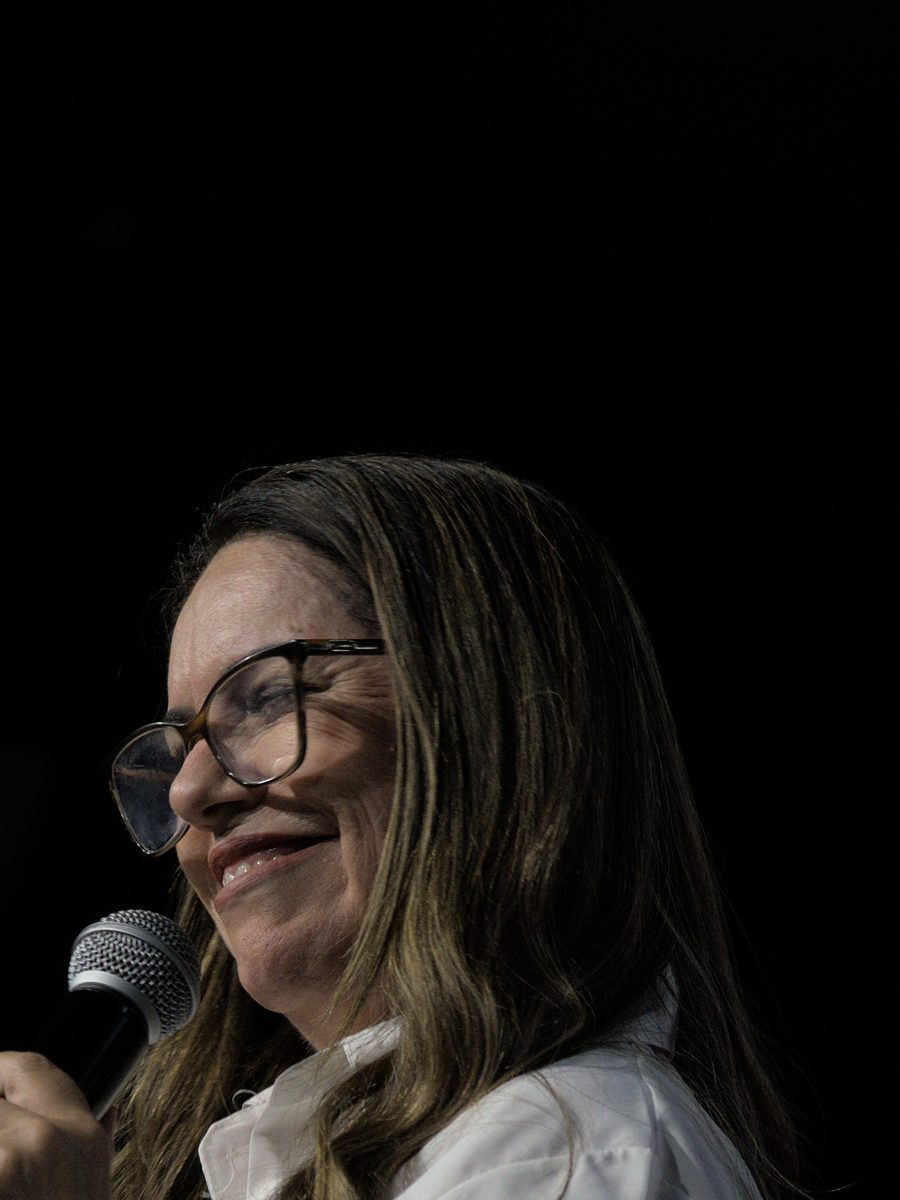
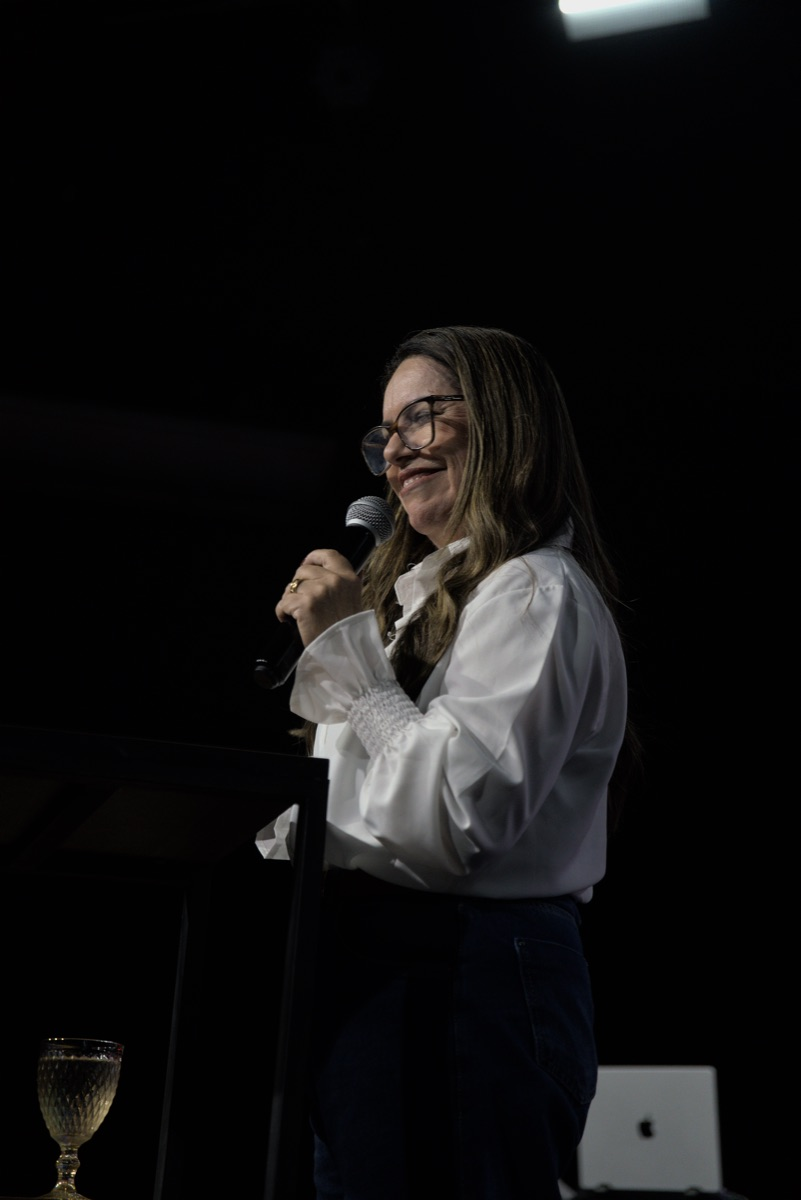
feat(conference): line-up com Ap. Rayssa e Ap. Neila em cards individuais
Separa os casais: Ap. Heber Son → Ap. Rayssa, e Ap. Samuel → Ap. Neila.
8 cards (grid 4×2 desktop, 2 col mobile). Fotos novas otimizadas (rayssa.jpg, neila.jpg).

diff --git a/web-platform/public/conference/index.html b/web-platform/public/conference/index.html
@@ -190,10 +190,12 @@
   <div class="lineup-grid">
     <div class="speaker"><span class="idx">01</span><img class="sp-photo" src="/conference/assets/speakers/gabriel.jpg" alt="Gabriel Júnior" loading="lazy" decoding="async"><div class="tint"></div><div class="ov"></div><div class="info"><div class="role">Ministração</div><div class="nm">Gabriel<br>Júnior</div></div></div>
     <div class="speaker"><span class="idx">02</span><img class="sp-photo" src="/conference/assets/speakers/mateus-brito.jpg" alt="Mateus Brito" loading="lazy" decoding="async"><div class="tint"></div><div class="ov"></div><div class="info"><div class="role">Ministração</div><div class="nm">Mateus<br>Brito</div></div></div>
-    <div class="speaker"><span class="idx">03</span><img class="sp-photo" src="/conference/assets/speakers/heber-son.jpg" alt="Ap. Heber Son e Rayssa Coelho" loading="lazy" decoding="async"><div class="tint"></div><div class="ov"></div><div class="info"><div class="role">Preleção</div><div class="nm">Ap. Heber Son<br>&amp; Rayssa</div></div></div>
-    <div class="speaker"><span class="idx">04</span><div class="media-fill" aria-hidden="true"><img class="dove" src="/conference/assets/vitoria-logo.png" alt="" loading="lazy" decoding="async"></div><div class="tint"></div><div class="ov"></div><div class="info"><div class="role">Adoração</div><div class="nm">Vitória<br>Worship</div></div></div>
-    <div class="speaker"><span class="idx">05</span><img class="sp-photo" src="/conference/assets/speakers/samuel.jpg" alt="Ap. Samuel e Neila" loading="lazy" decoding="async"><div class="tint"></div><div class="ov"></div><div class="info"><div class="role">Ministração</div><div class="nm">Ap. Samuel<br>&amp; Neila</div></div></div>
-    <div class="speaker"><span class="idx">06</span><img class="sp-photo" src="/conference/assets/speakers/geisson.jpg" alt="Geisson Augusto" loading="lazy" decoding="async"><div class="tint"></div><div class="ov"></div><div class="info"><div class="role">Preletor</div><div class="nm">Geisson<br>Augusto</div></div></div>
+    <div class="speaker"><span class="idx">03</span><img class="sp-photo" src="/conference/assets/speakers/heber-son.jpg" alt="Ap. Heber Son" loading="lazy" decoding="async"><div class="tint"></div><div class="ov"></div><div class="info"><div class="role">Preleção</div><div class="nm">Ap. Heber<br>Son</div></div></div>
+    <div class="speaker"><span class="idx">04</span><img class="sp-photo" src="/conference/assets/speakers/rayssa.jpg" alt="Ap. Rayssa Coelho" loading="lazy" decoding="async"><div class="tint"></div><div class="ov"></div><div class="info"><div class="role">Preleção</div><div class="nm">Ap.<br>Rayssa</div></div></div>
+    <div class="speaker"><span class="idx">05</span><div class="media-fill" aria-hidden="true"><img class="dove" src="/conference/assets/vitoria-logo.png" alt="" loading="lazy" decoding="async"></div><div class="tint"></div><div class="ov"></div><div class="info"><div class="role">Adoração</div><div class="nm">Vitória<br>Worship</div></div></div>
+    <div class="speaker"><span class="idx">06</span><img class="sp-photo" src="/conference/assets/speakers/samuel.jpg" alt="Ap. Samuel" loading="lazy" decoding="async"><div class="tint"></div><div class="ov"></div><div class="info"><div class="role">Ministração</div><div class="nm">Ap.<br>Samuel</div></div></div>
+    <div class="speaker"><span class="idx">07</span><img class="sp-photo" src="/conference/assets/speakers/neila.jpg" alt="Ap. Neila" loading="lazy" decoding="async"><div class="tint"></div><div class="ov"></div><div class="info"><div class="role">Ministração</div><div class="nm">Ap.<br>Neila</div></div></div>
+    <div class="speaker"><span class="idx">08</span><img class="sp-photo" src="/conference/assets/speakers/geisson.jpg" alt="Geisson Augusto" loading="lazy" decoding="async"><div class="tint"></div><div class="ov"></div><div class="info"><div class="role">Preletor</div><div class="nm">Geisson<br>Augusto</div></div></div>
   </div>
 </section>
 